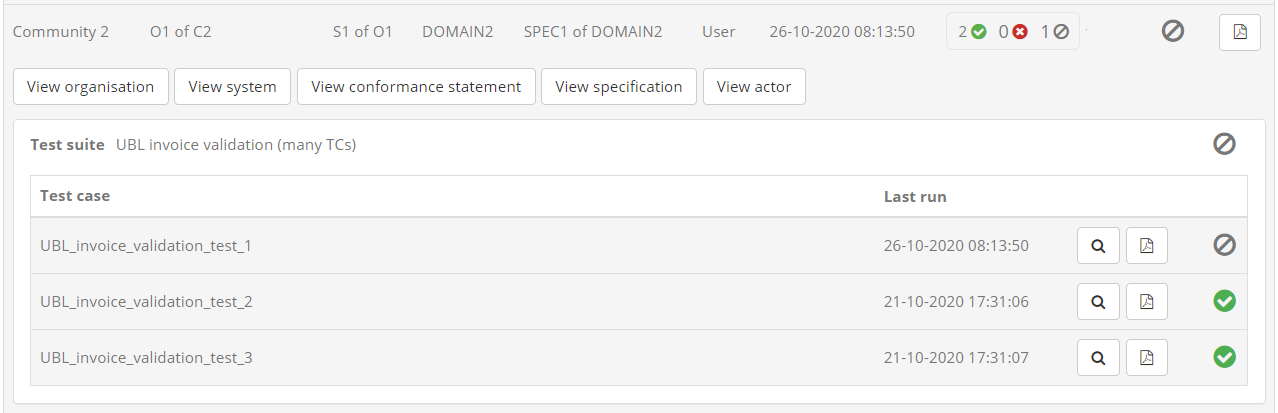
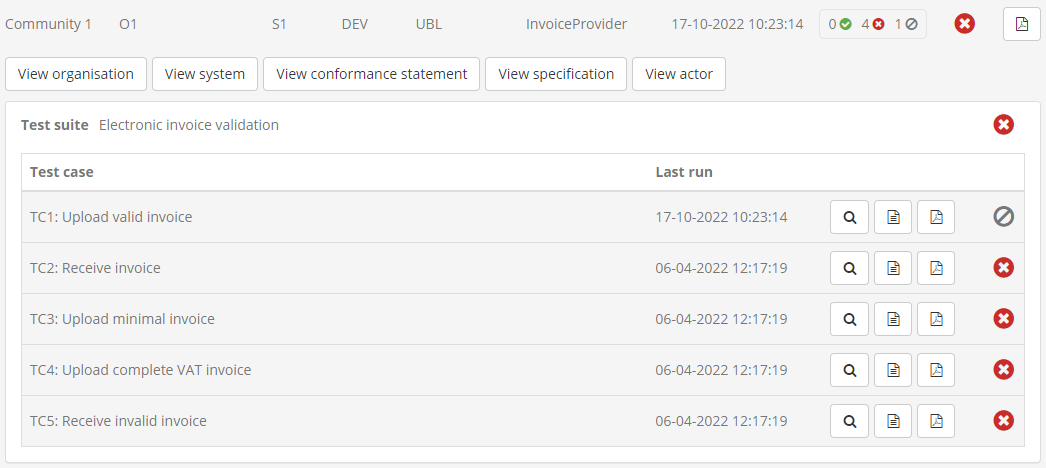
TA updates for next release

diff --git a/source/sessionDashboard/index.rst b/source/sessionDashboard/index.rst
@@ -13,7 +13,7 @@ Doing so presents you with a left side menu containing links to administrative f
 the **Session Dashboard** link. Note that this screen is also the default selection once you click the 
 header's **ADMIN** link.
 
-.. figure:: ../screenshots/admin_session_dashboard_ta.png
+.. figure:: ../screenshots/admin_session_dashboard.PNG
   :align: center
 
 The screen is split in four sections: